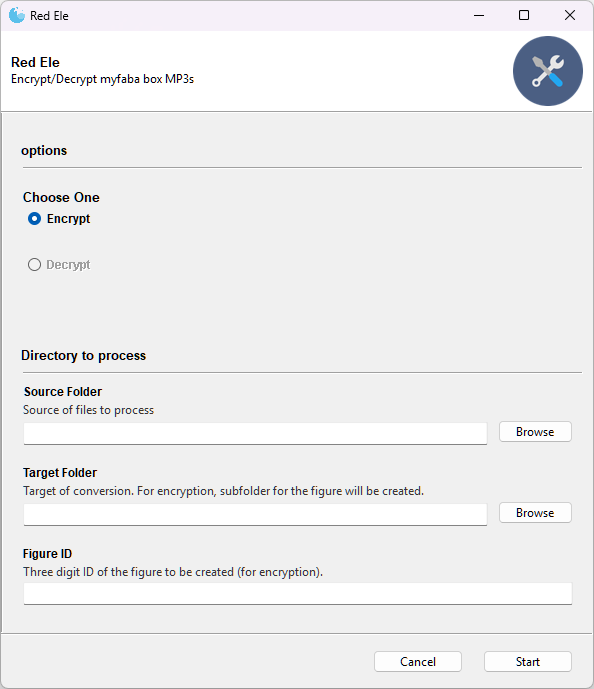
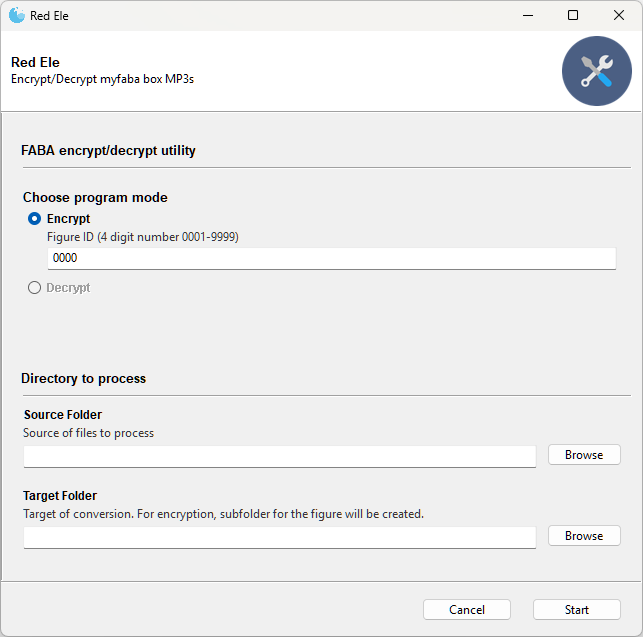
Update design of python implementation, add installation instruction for linux+MacOS (#28)
* Add installation instructions for *nix, design update to the program to make the radio button choice slightly more apparent.

diff --git a/python/redele.py b/python/redele.py
@@ -111,22 +111,27 @@ def main():
         description="Encrypt/Decrypt myfaba box MP3s",
     )
     
-    encdecgroup = parser.add_mutually_exclusive_group(
-        gooey_options={'initial_selection': 0}
+    program_mode_group = parser.add_argument_group("FABA encrypt/decrypt utility")
+    
+    program_mode_radiogroup = program_mode_group.add_mutually_exclusive_group(
+        required=True,
+        gooey_options=dict(title="Choose program mode",full_width=True, initial_selection=0)
     )
-    encdecgroup.add_argument(
-        "-e", 
-        "--encrypt", 
-        metavar="Encrypt", 
+    program_mode_radiogroup.add_argument(
+        "-f",
+        "--figure-id",
+        metavar="Encrypt",
+        help="Figure ID (4 digit number 0001-9999)",
+        widget="TextField",
+        default="0000"
+    )
+    program_mode_radiogroup.add_argument(
+        "-d",
+        "--decrypt",
+        metavar="Decrypt",
         action="store_true"
     )
-    encdecgroup.add_argument(
-        "-d", 
-        "--decrypt", 
-        metavar="Decrypt", 
-        action="store_true"
-    )
-
+    
     main_group = parser.add_argument_group(
         "Directory to process",
         gooey_options={'columns':2}
@@ -147,12 +152,6 @@ def main():
         widget='DirChooser',
         gooey_options={'full_width':True}
     )
-    main_group.add_argument(
-        "-f", 
-        "--figure-id",
-        metavar="Figure ID",
-        help="Four digit ID of the figure to be created (for encryption)."
-    )
 
     args = parser.parse_args()
     
@@ -165,7 +164,7 @@ def main():
         print(f"Error: Source folder '{args.source_folder}' does not exist or is not a directory.")
         sys.exit(1)
 
-    if args.encrypt:
+    if not args.decrypt:
         
         # monkeypatch out exceptions on invalid ID3 headers - we're only trying to delete
         # every ID3 tag after all...

diff --git a/python/README.md b/python/README.md
@@ -3,8 +3,18 @@ A python script for customizing and enhancing your MyFaba storytelling box. Unlo
 
 Faba boxes are essentially MP3 players, but for original Faba boxes they need to have files pre-obfuscated. This script can turn directory of MP3s into directory supported by your FABA box, and can also turn directory of obfuscated MKI files back into MP3s.
 
+## Installation
+
+### On Windows:
+
+You can use your python interpreter if you have it (see linux/macos section), but you can also download pre-built binaries on Releases page.
+
+### On Linux / MacOS
+
+Install python3 on your system if you don't have it yet. Make sure to install `pip` as part of your python. Run `pip install -r requirements.txt` in the script directory to install prerequisites. Run `chmod +x redele.py` to invoke the script directly, or run it using `python3 redele.py`.
 
 ## Create your own figure (Original Faba red cube)
+
 Run the script with no parameters and you can use elementary GUI to do the decryption or encryption.
 ![GUI Screenshot](img/GUI.png?raw=true "GUI")
 
@@ -12,7 +22,7 @@ Alternatively, you can run the script in command-line.
 
 For example, to encrypt songs in `/home/user/songs` with figure ID `0742` and copy it to FABA box at `/mnt/faba/MKI01`, run:
 ```
-./redele.py --encrypt --source-folder /home/user/songs --figure-id 0742 --target-folder /mnt/faba/MKI01
+./redele.py --source-folder /home/user/songs --figure-id 0742 --target-folder /mnt/faba/MKI01
 ```
 Or, to play your Italian red elephant Ele's audio on the computer, you can decrypt it:
 ```
@@ -20,10 +30,6 @@ Or, to play your Italian red elephant Ele's audio on the computer, you can decry
 ``` 
 
 Write an NFC TAG with the figure ID and enjoy it!
-
-#### On Windows:
-
-You can use your python interpreter if you have it, but you can also download pre-built binaries on Releases page.
 
 
 ## Known Figure IDs
